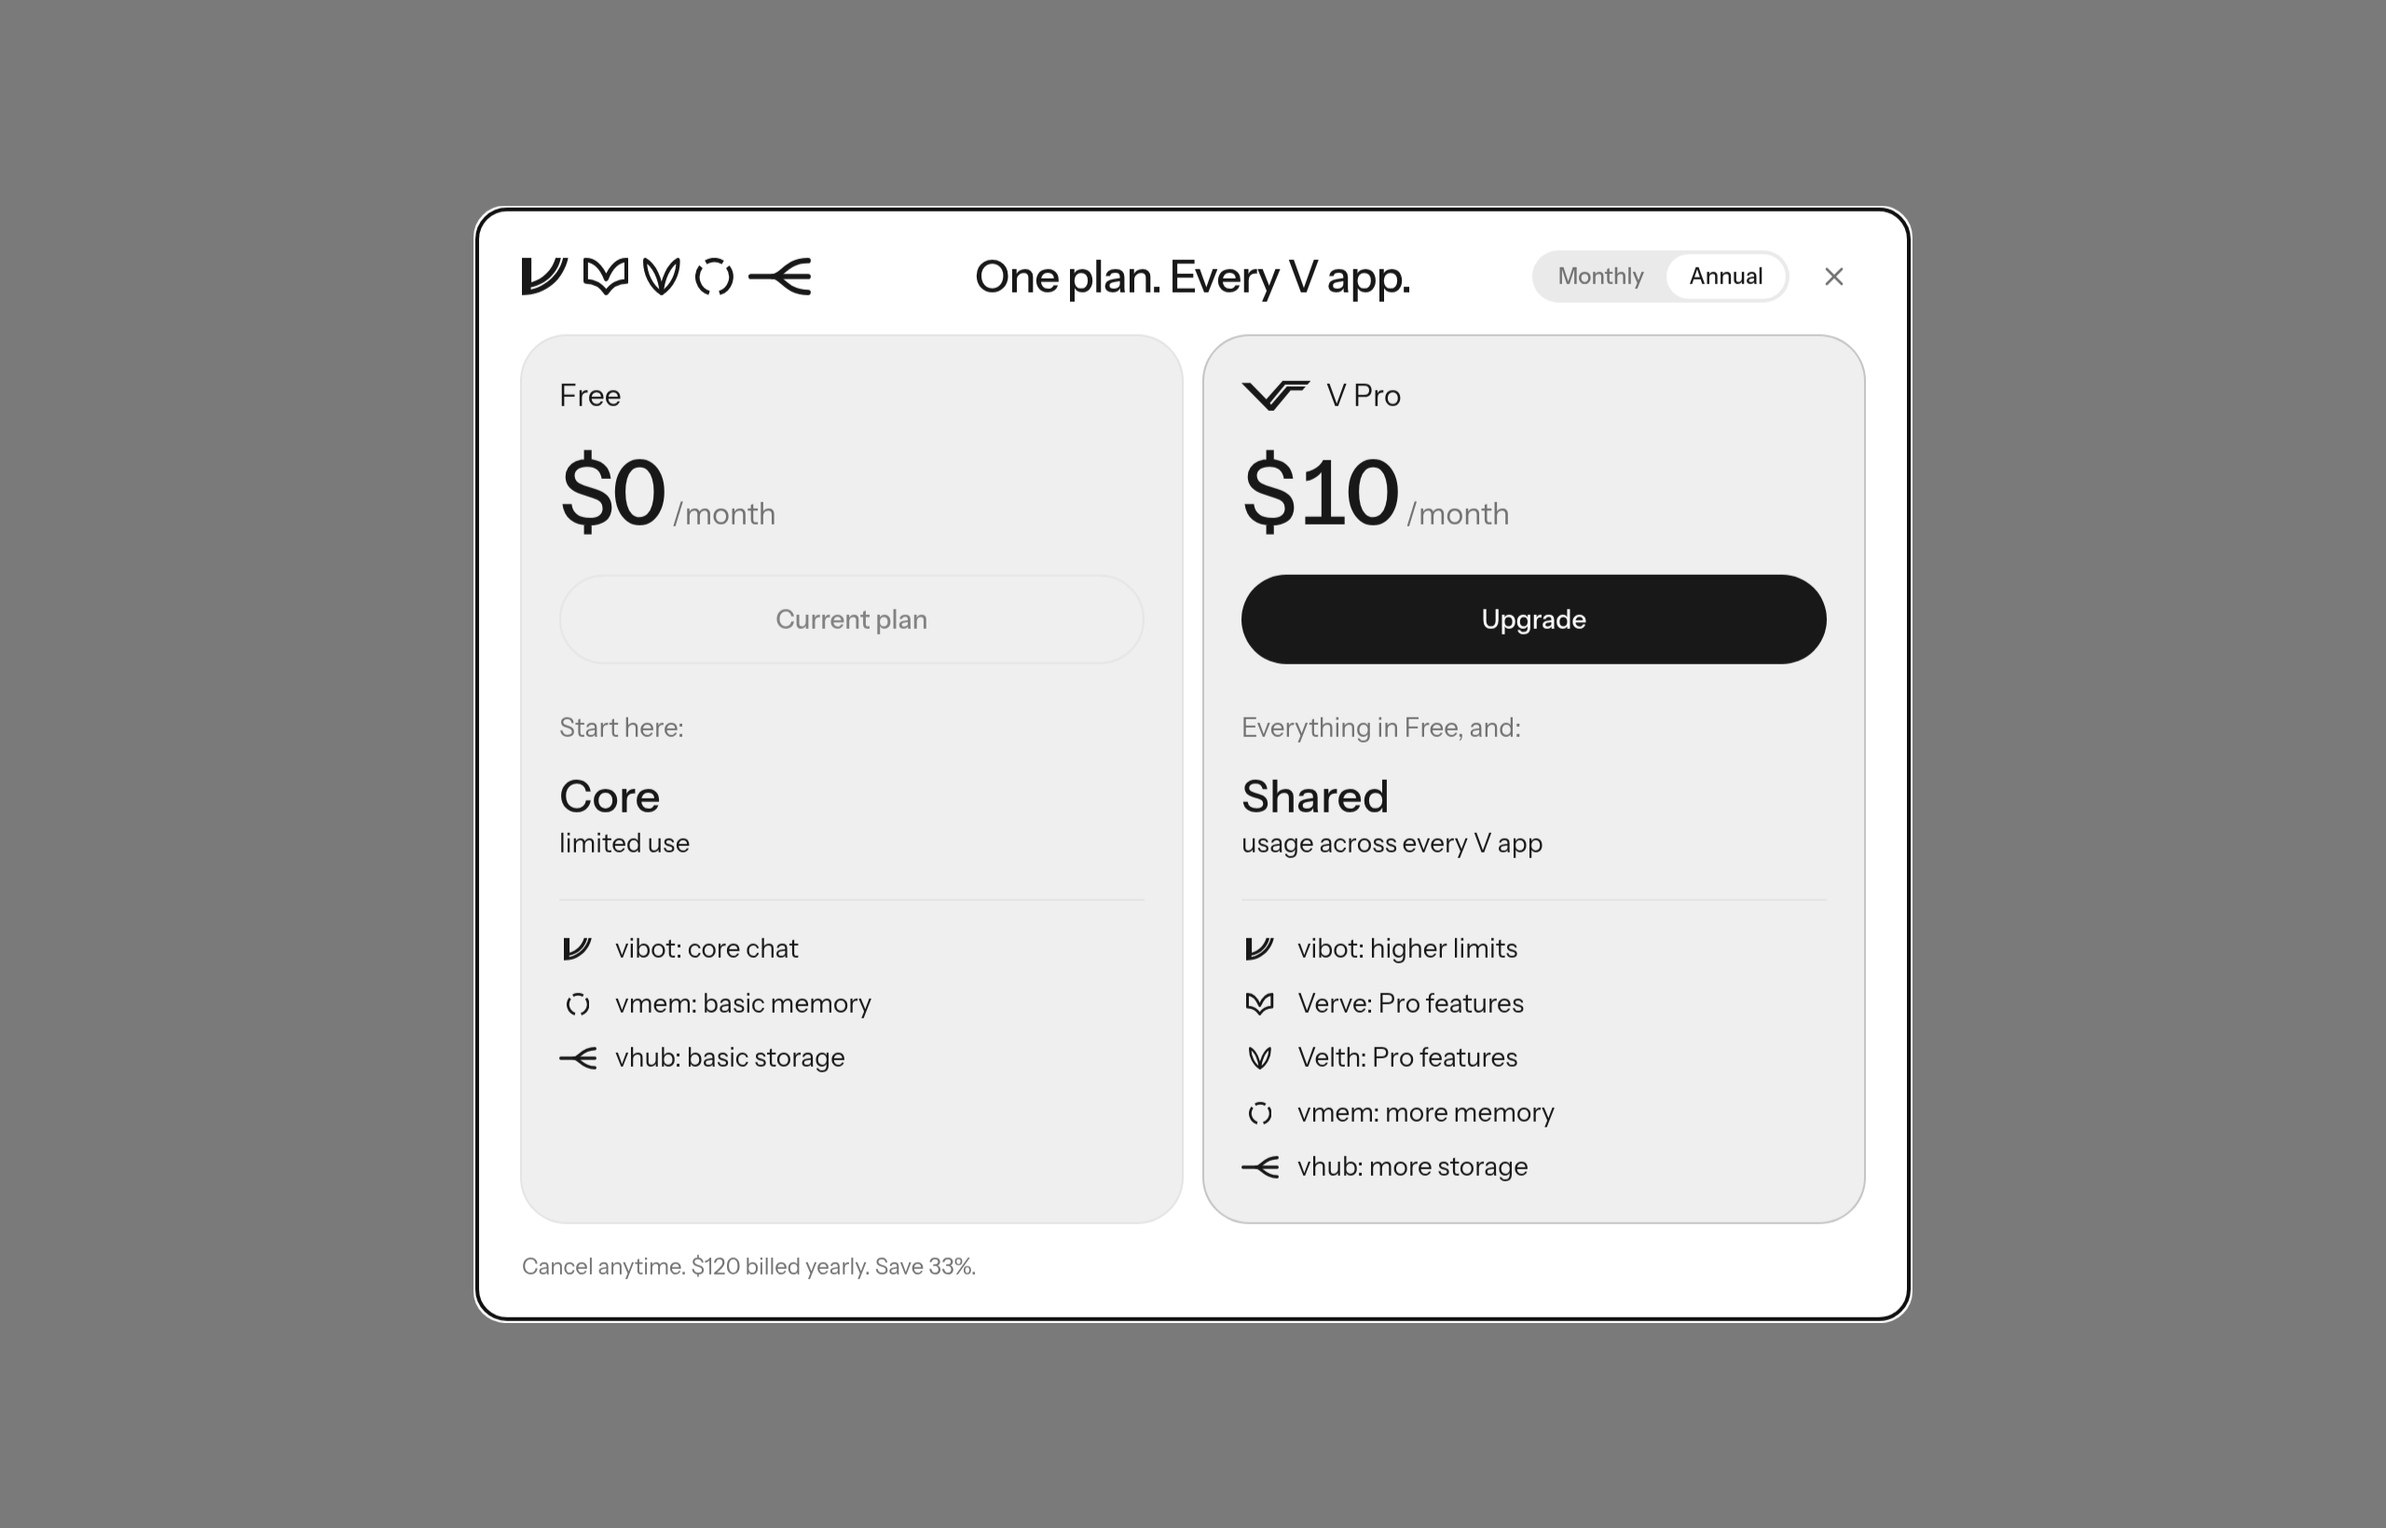
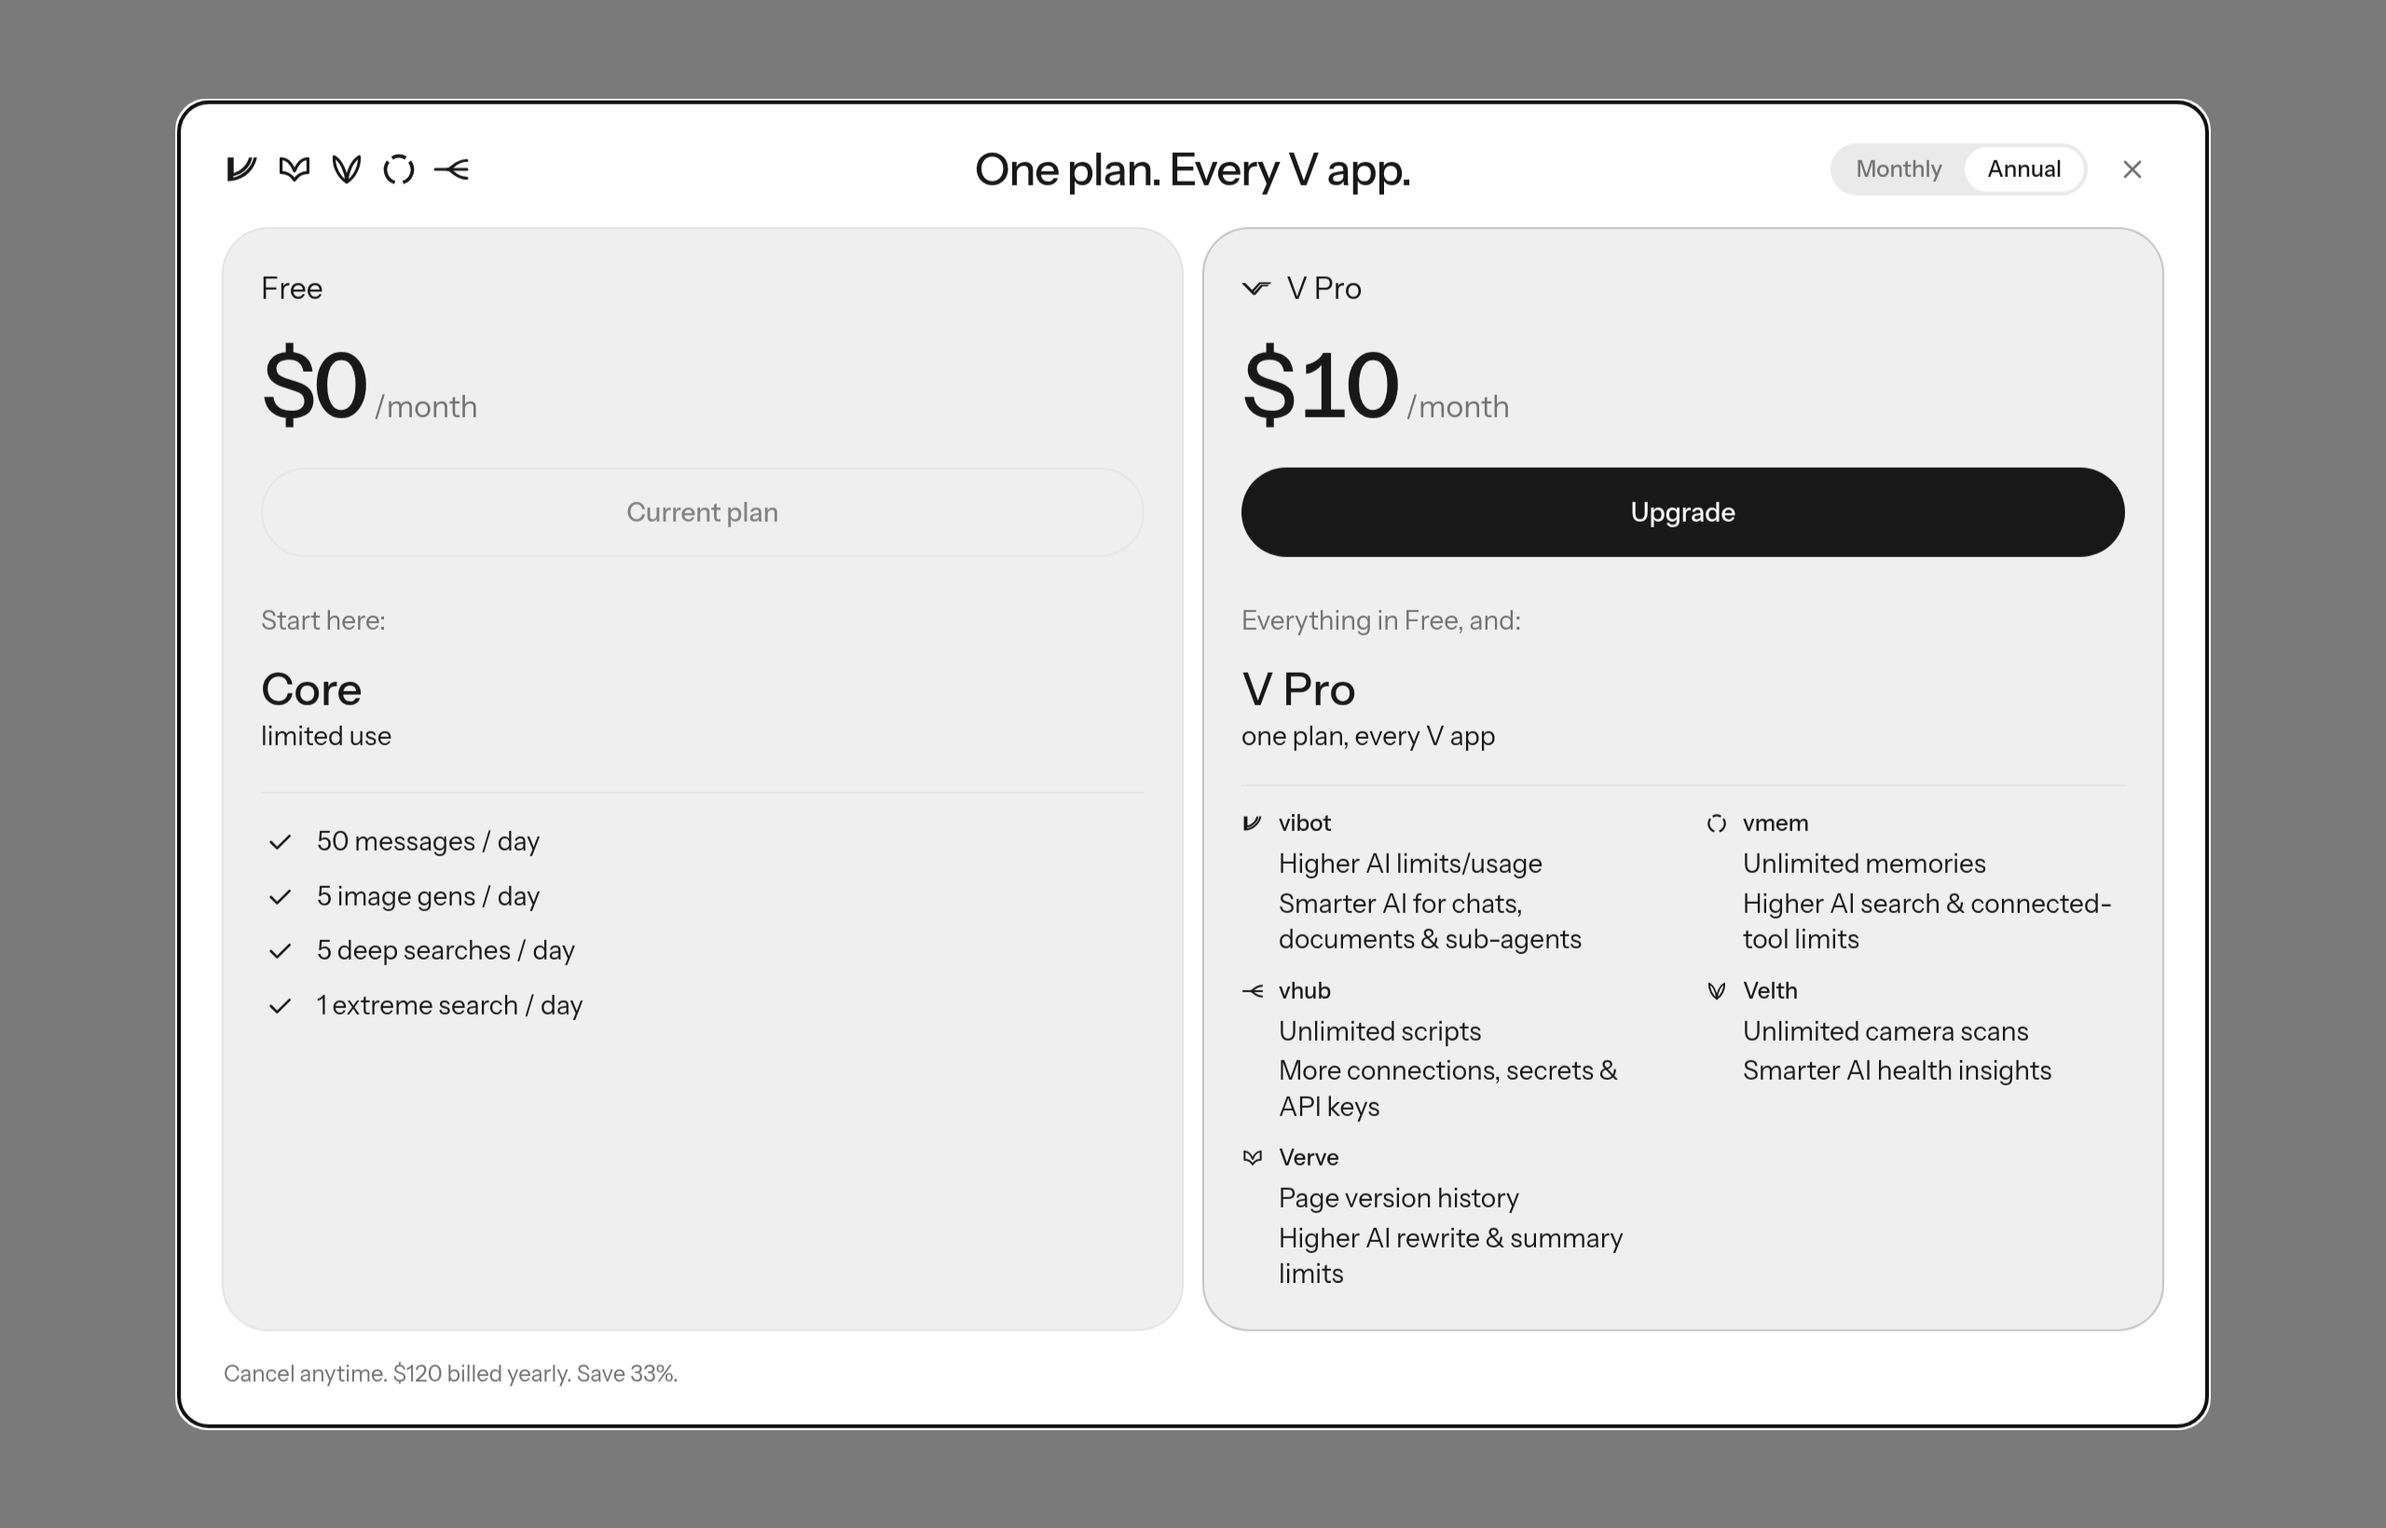
ui: widen two-plan PricingModal to 1088px (0.25.2)
Raise the multi-plan dialog max width for two plans from sm:max-w-3xl
(768px) to sm:max-w-[68rem] (1088px) so V Pro perk lines mostly fit on
one row at desktop width. Regenerates brand/pricing-modal screenshots.

diff --git a/packages/ui/src/marketing/PricingModal.tsx b/packages/ui/src/marketing/PricingModal.tsx
@@ -260,7 +260,7 @@ function PricingModalSingle({
 
 const multiWidth = {
   1: "sm:max-w-md",
-  2: "sm:max-w-3xl",
+  2: "sm:max-w-[68rem]",
   3: "sm:max-w-5xl",
   4: "sm:max-w-6xl",
 } as const;

diff --git a/packages/ui/CHANGELOG.md b/packages/ui/CHANGELOG.md
@@ -1,5 +1,10 @@
 # Changelog
 
+## 0.25.2
+
+- `PricingModal` multi-plan (2 plans): dialog max width raised from `sm:max-w-3xl` (768px) to `sm:max-w-[68rem]` (1088px) so the V Pro per-app perk grid mostly fits each line on one row at desktop width. One-plan, three-plan and four-plan widths, stacking on narrow screens, and all copy/prices/behaviour are unchanged.
+- No new dependencies.
+
 ## 0.25.1
 
 - App icons centred in their square frames. In 0.25.0 the five app glyphs (`vibot`, `vhub`, `vmem`, `verve`, `velth`) shared one crop origin, so glyphs that were off-centre in the tile (`vmem` most) rendered off-centre. The five apps keep the 629 x 629 frame (equal scale), and each `APP_MARK_VIEWBOX` origin is now centred on that glyph's `markBBox`. `projectv` keeps 687 x 687, centred on its bbox (`171.5 181 687 687`). `APP_MARK_CROP_VIEWBOX` stays as the historical size constant. Tiles (`MARK_VIEWBOX`, `appTileSvg`, `appAdaptiveSvg`, `appExtension128Svg`) and path data (`APP_MARKS`) are unchanged.
